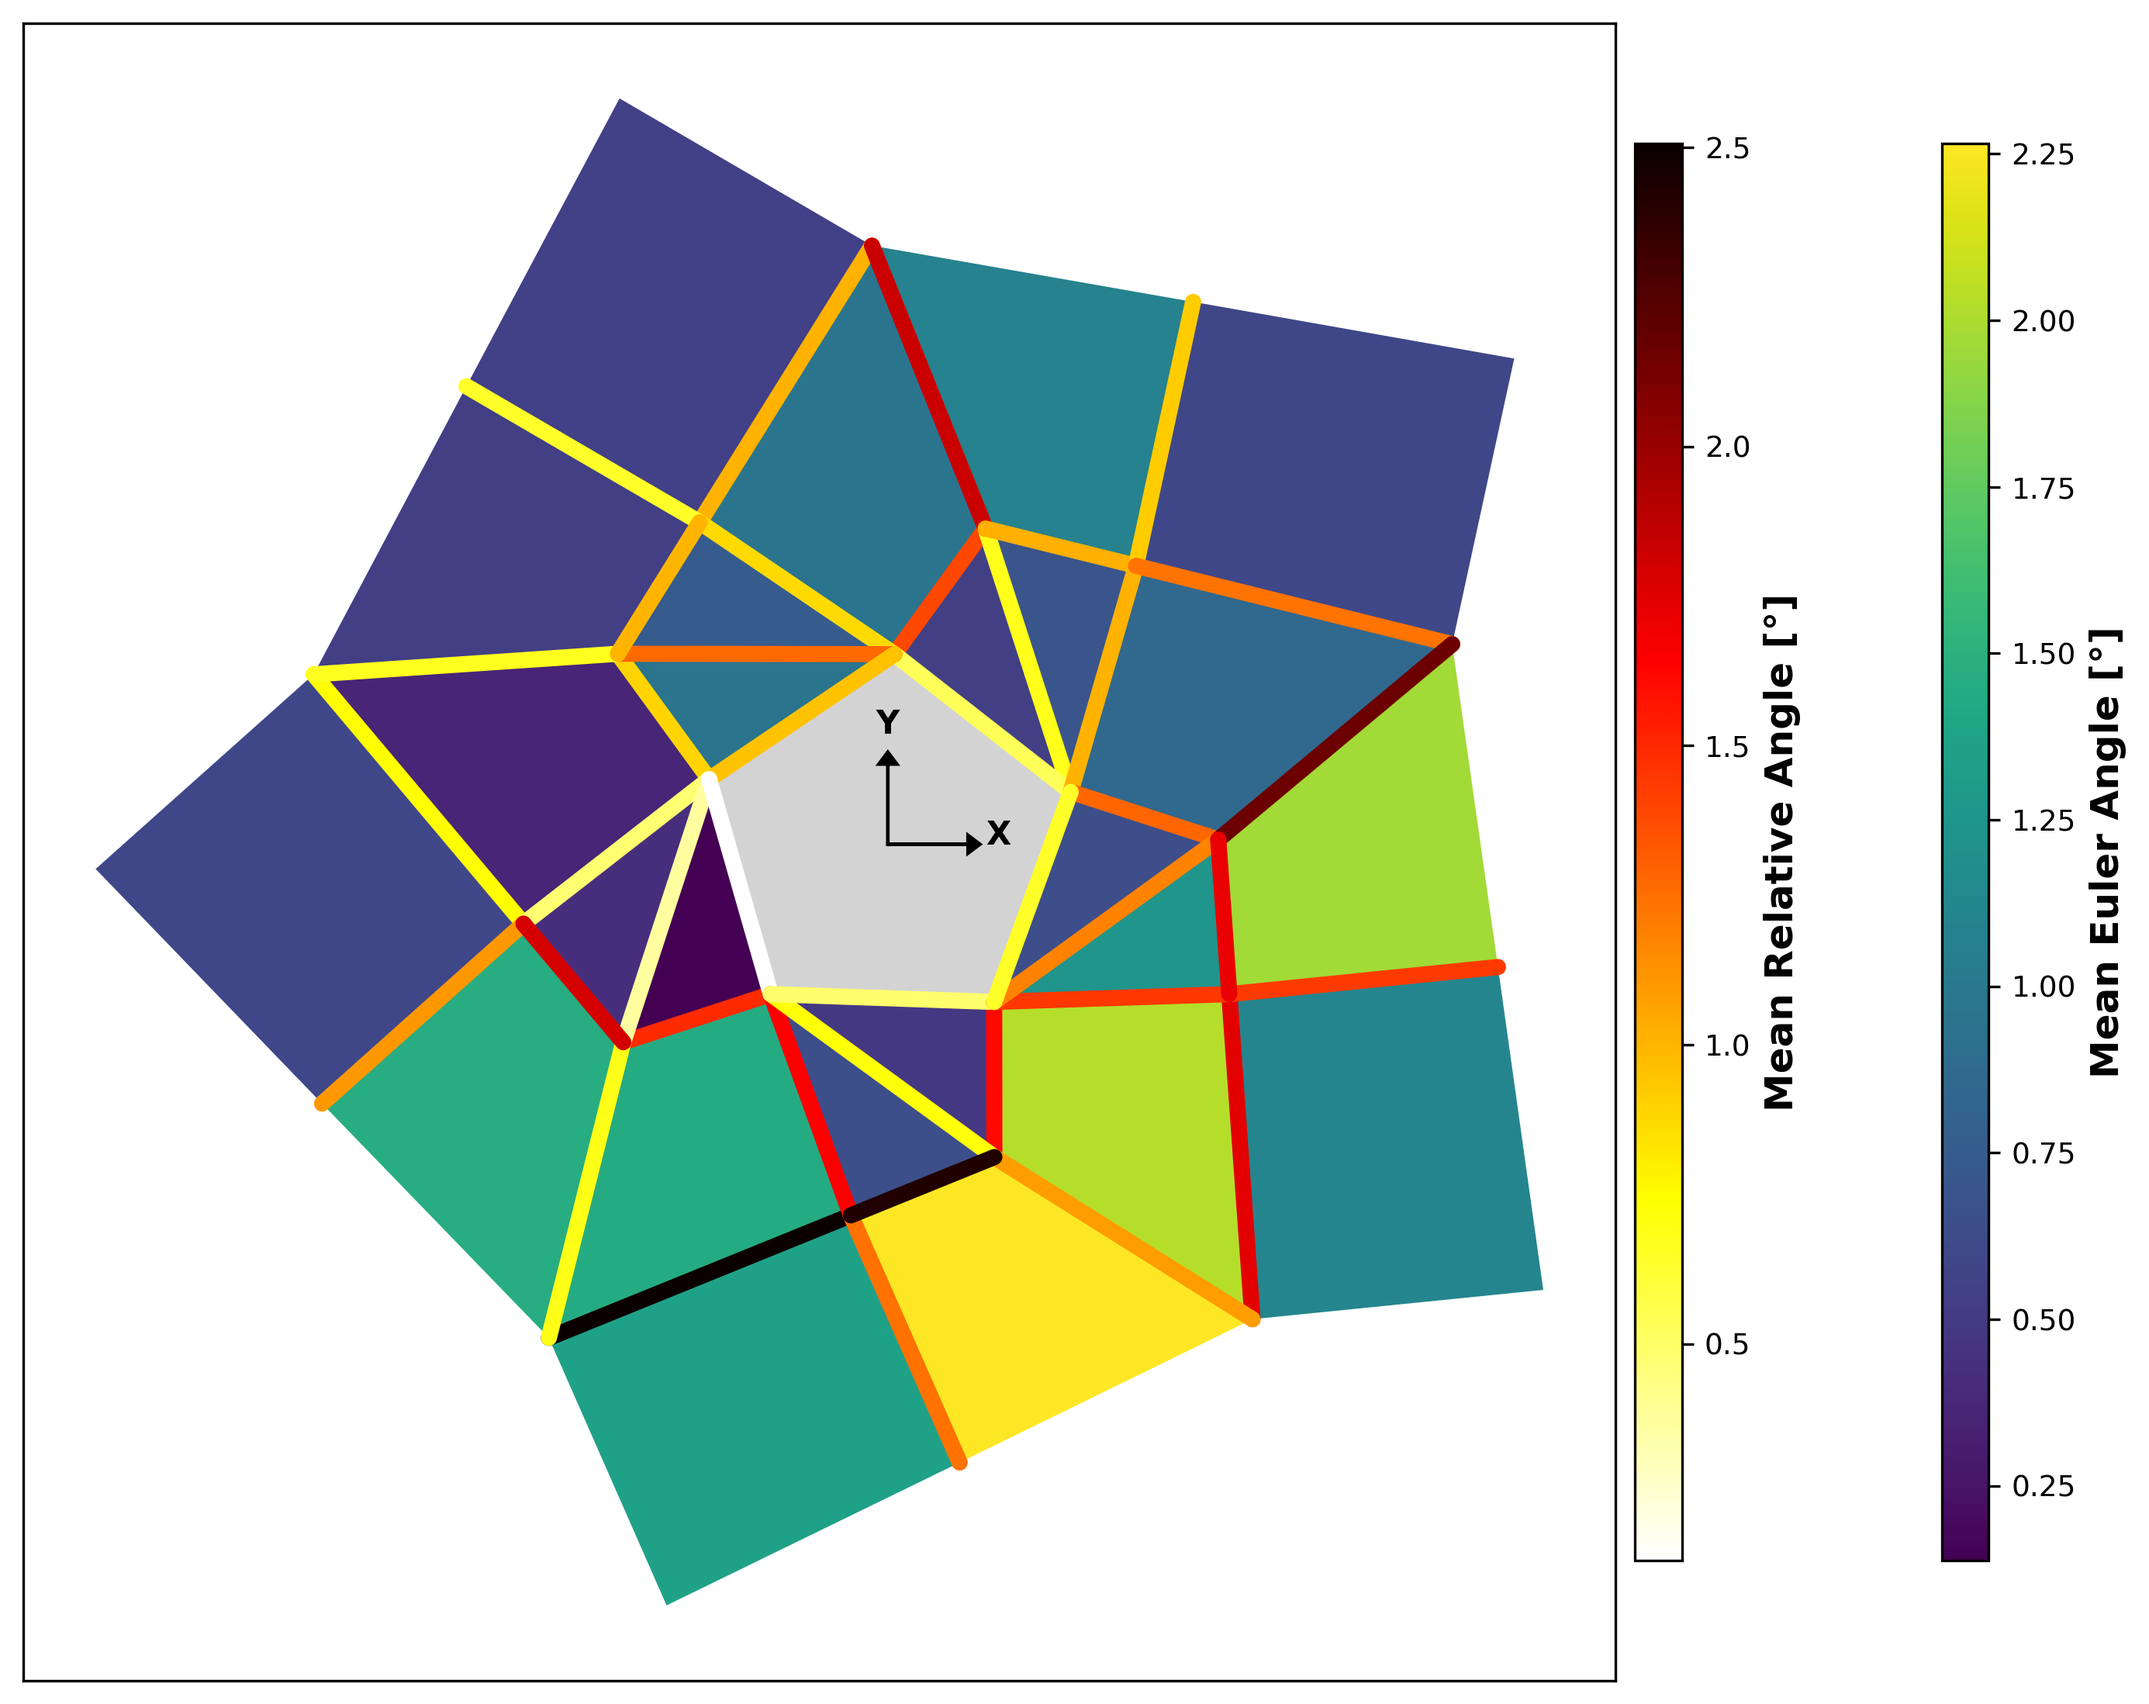
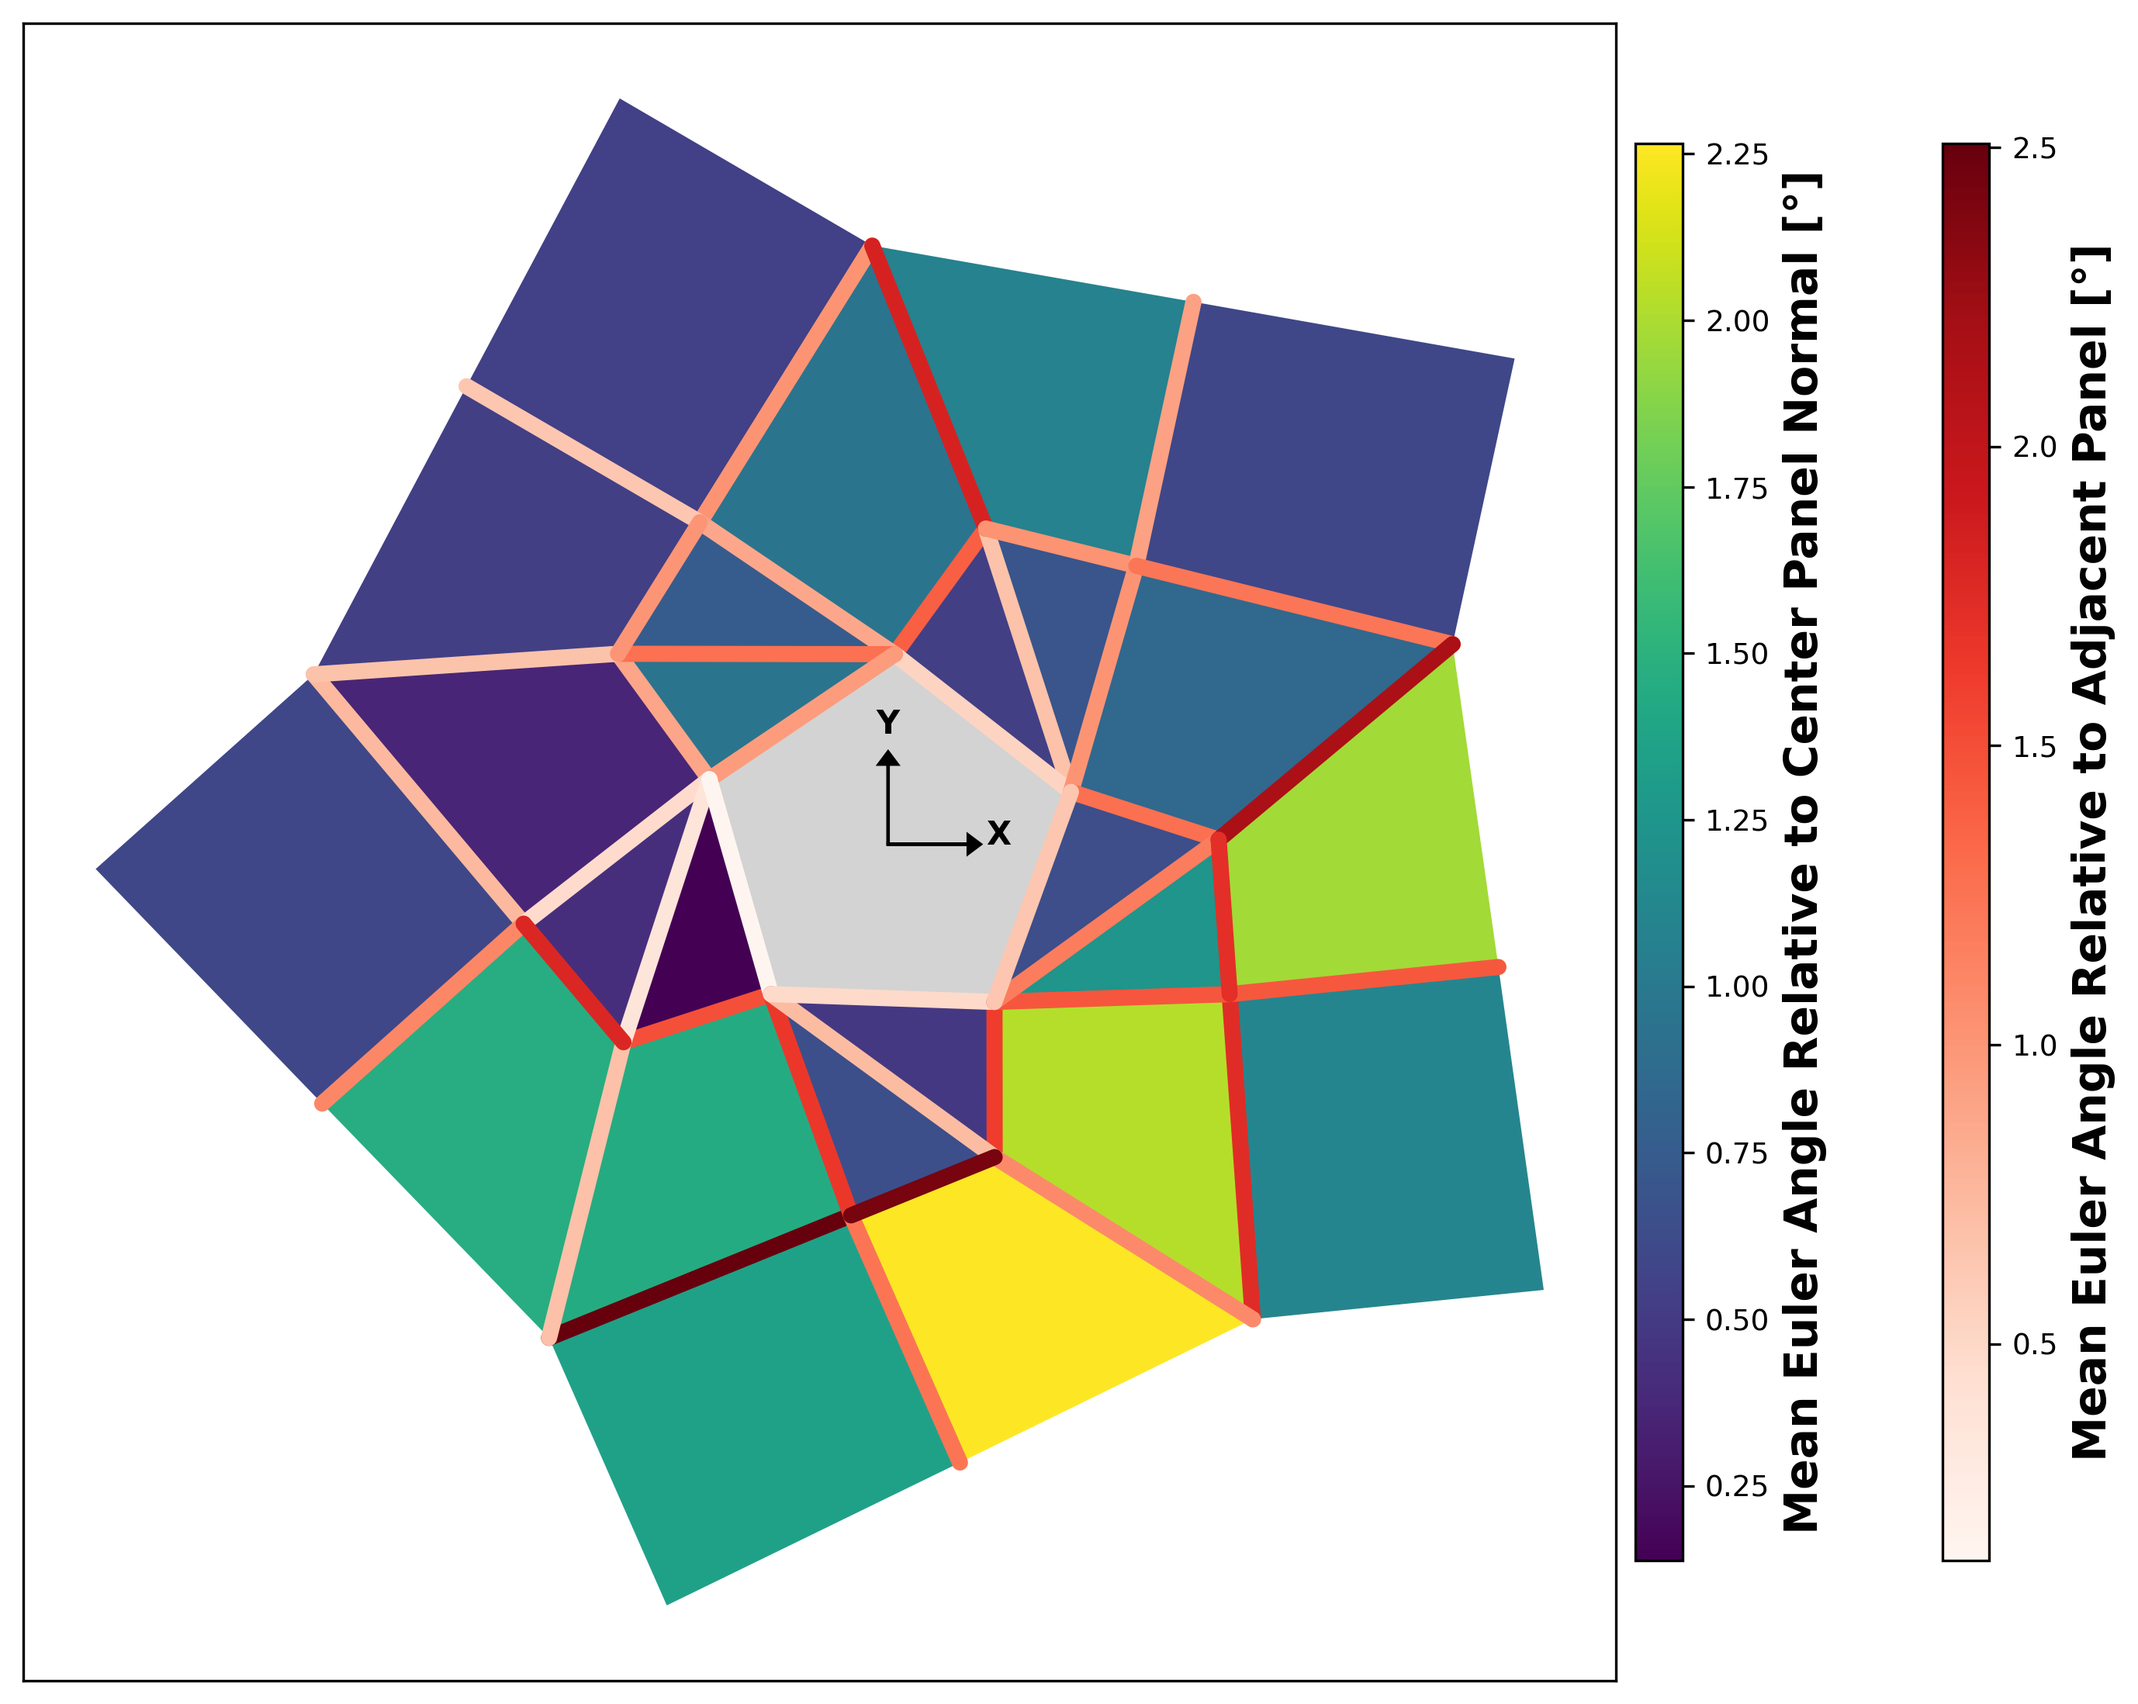
current state

diff --git a/plot_tiptilt_flasher.py b/plot_tiptilt_flasher.py
@@ -399,21 +399,22 @@ def plot_euler_angle_heatmap(
     # ------------------------------------------------------------------
     # 8. Two colorbars — panel fill (left) and edge lines (right)
     # ------------------------------------------------------------------
-    # Panel fill colorbar
-    sm_panel = plt.cm.ScalarMappable(cmap=panel_cmap, norm=panel_cnorm)
-    sm_panel.set_array([])
-    cbar_panel = fig.colorbar(sm_panel, ax=ax, shrink=0.7, aspect=30,
-                              pad=0.01, location="right")
-    cbar_panel.set_label(panel_colorbar_label, fontsize=12, fontweight="bold")
-    cbar_panel.ax.tick_params(labelsize=9)
 
     # Edge line colorbar — placed to the right of the panel colorbar
     sm_edge = plt.cm.ScalarMappable(cmap=edge_cmap, norm=edge_cnorm)
     sm_edge.set_array([])
     cbar_edge = fig.colorbar(sm_edge, ax=ax, shrink=0.7, aspect=30,
                              pad=0.01, location="right")
-    cbar_edge.set_label(edge_colorbar_label, fontsize=12, fontweight="bold")
+    cbar_edge.set_label(edge_colorbar_label, fontsize=14, fontweight="bold")
     cbar_edge.ax.tick_params(labelsize=9)
+
+    # Panel fill colorbar
+    sm_panel = plt.cm.ScalarMappable(cmap=panel_cmap, norm=panel_cnorm)
+    sm_panel.set_array([])
+    cbar_panel = fig.colorbar(sm_panel, ax=ax, shrink=0.7, aspect=30,
+                              pad=0.01, location="right")
+    cbar_panel.set_label(panel_colorbar_label, fontsize=14, fontweight="bold")
+    cbar_panel.ax.tick_params(labelsize=9)
 
 
 

diff --git a/main2.py b/main2.py
@@ -151,15 +151,15 @@ plot_euler_angle_heatmap(
         panel_data=mean_euler_angle["mean_euler_angle"],
         edge_data=edge_data,
         panel_cmap_name="viridis",
-        edge_cmap_name="hot_r",
+        edge_cmap_name="Reds",
         figsize=(10, 9),
-        panel_colorbar_label="Mean Euler Angle [°]",
-        edge_colorbar_label="Mean Relative Angle [°]",
+        panel_colorbar_label="Mean Euler Angle Relative to Center Panel Normal [°]",
+        edge_colorbar_label="Mean Euler Angle Relative to Adjacent Panel [°]",
         panel_vmax=max_euler_angle_value,
         edge_linewidth=5.0,
         save_path="euler_angle_heatmap.png",
     )
 
 print("The max euler angle value across all deployments is:", max_euler_angle_value)
-print("The max panel to panel relative angle across all deployments is:", max(edge_data["mean_relative_angle"]))
+print("The max panel to panel relative angle across all deployments is:", max(edge_data.values()))
 #%%
